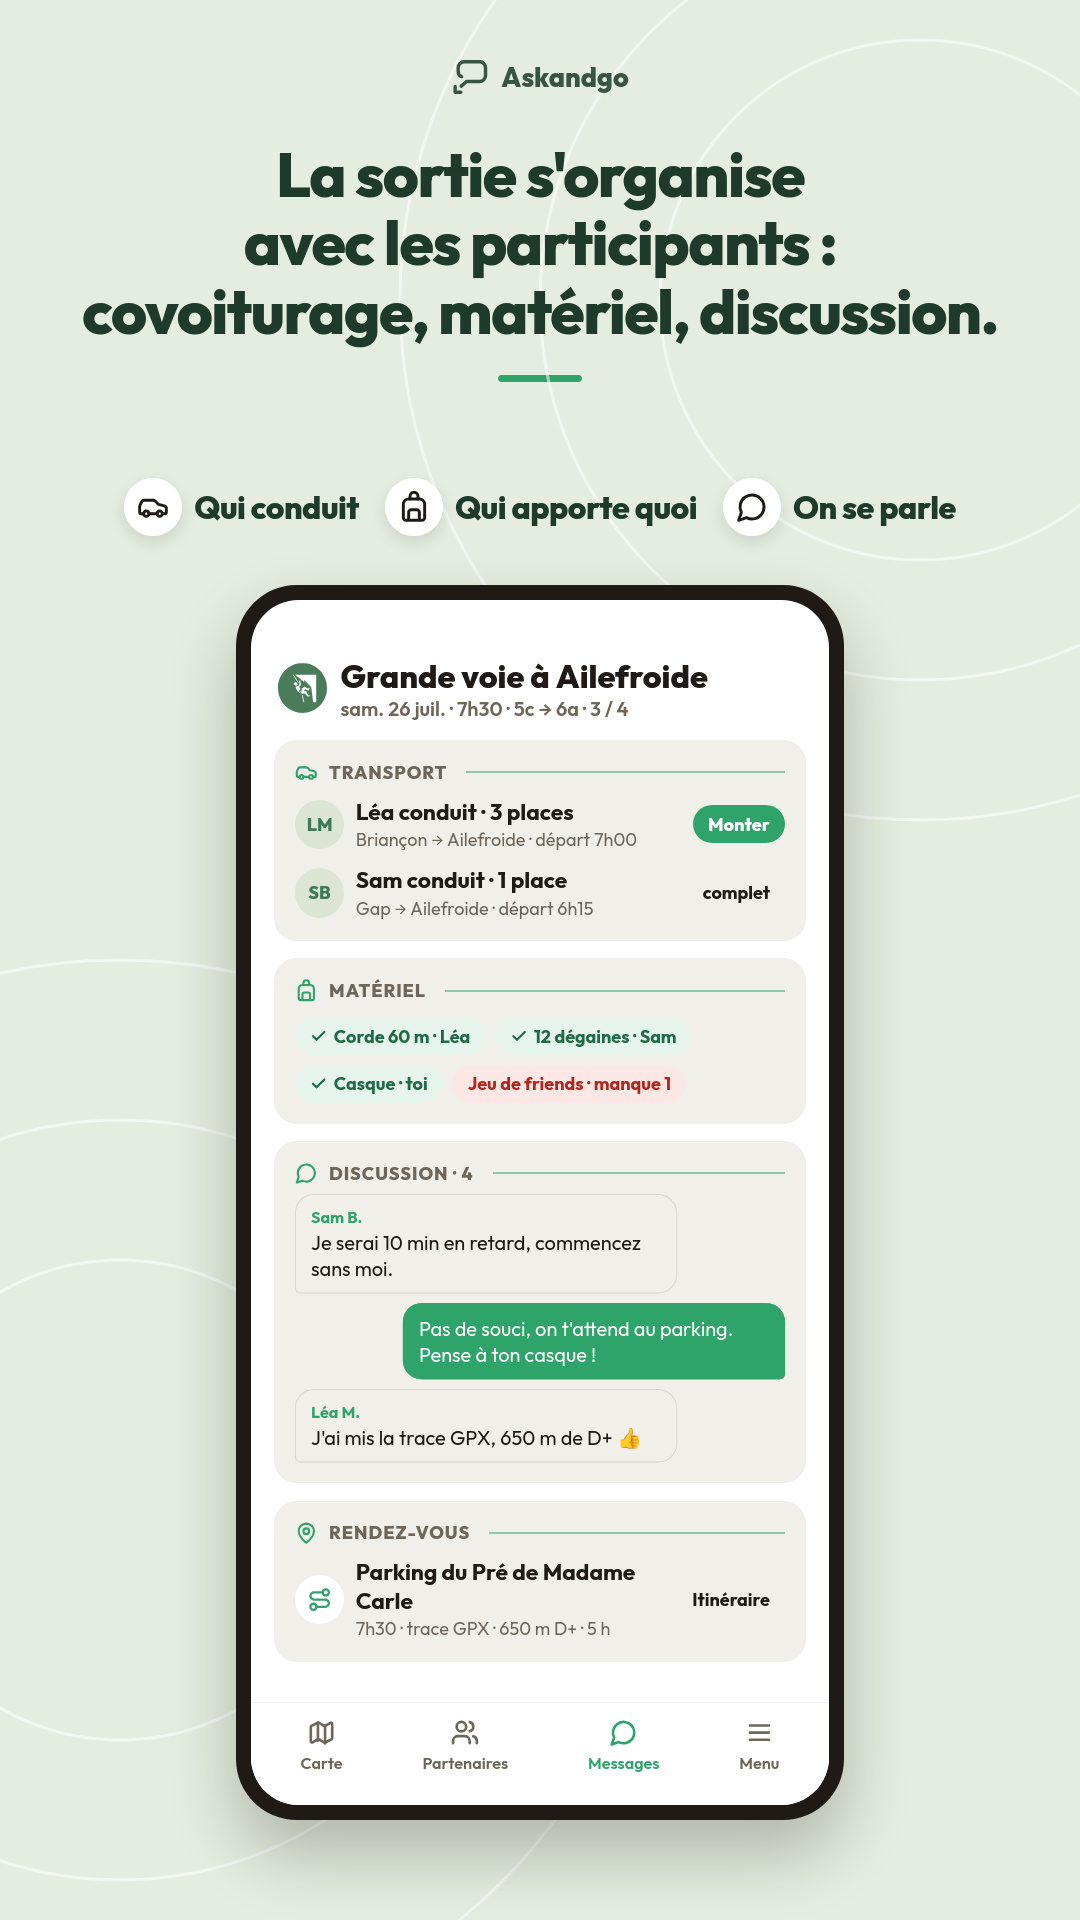
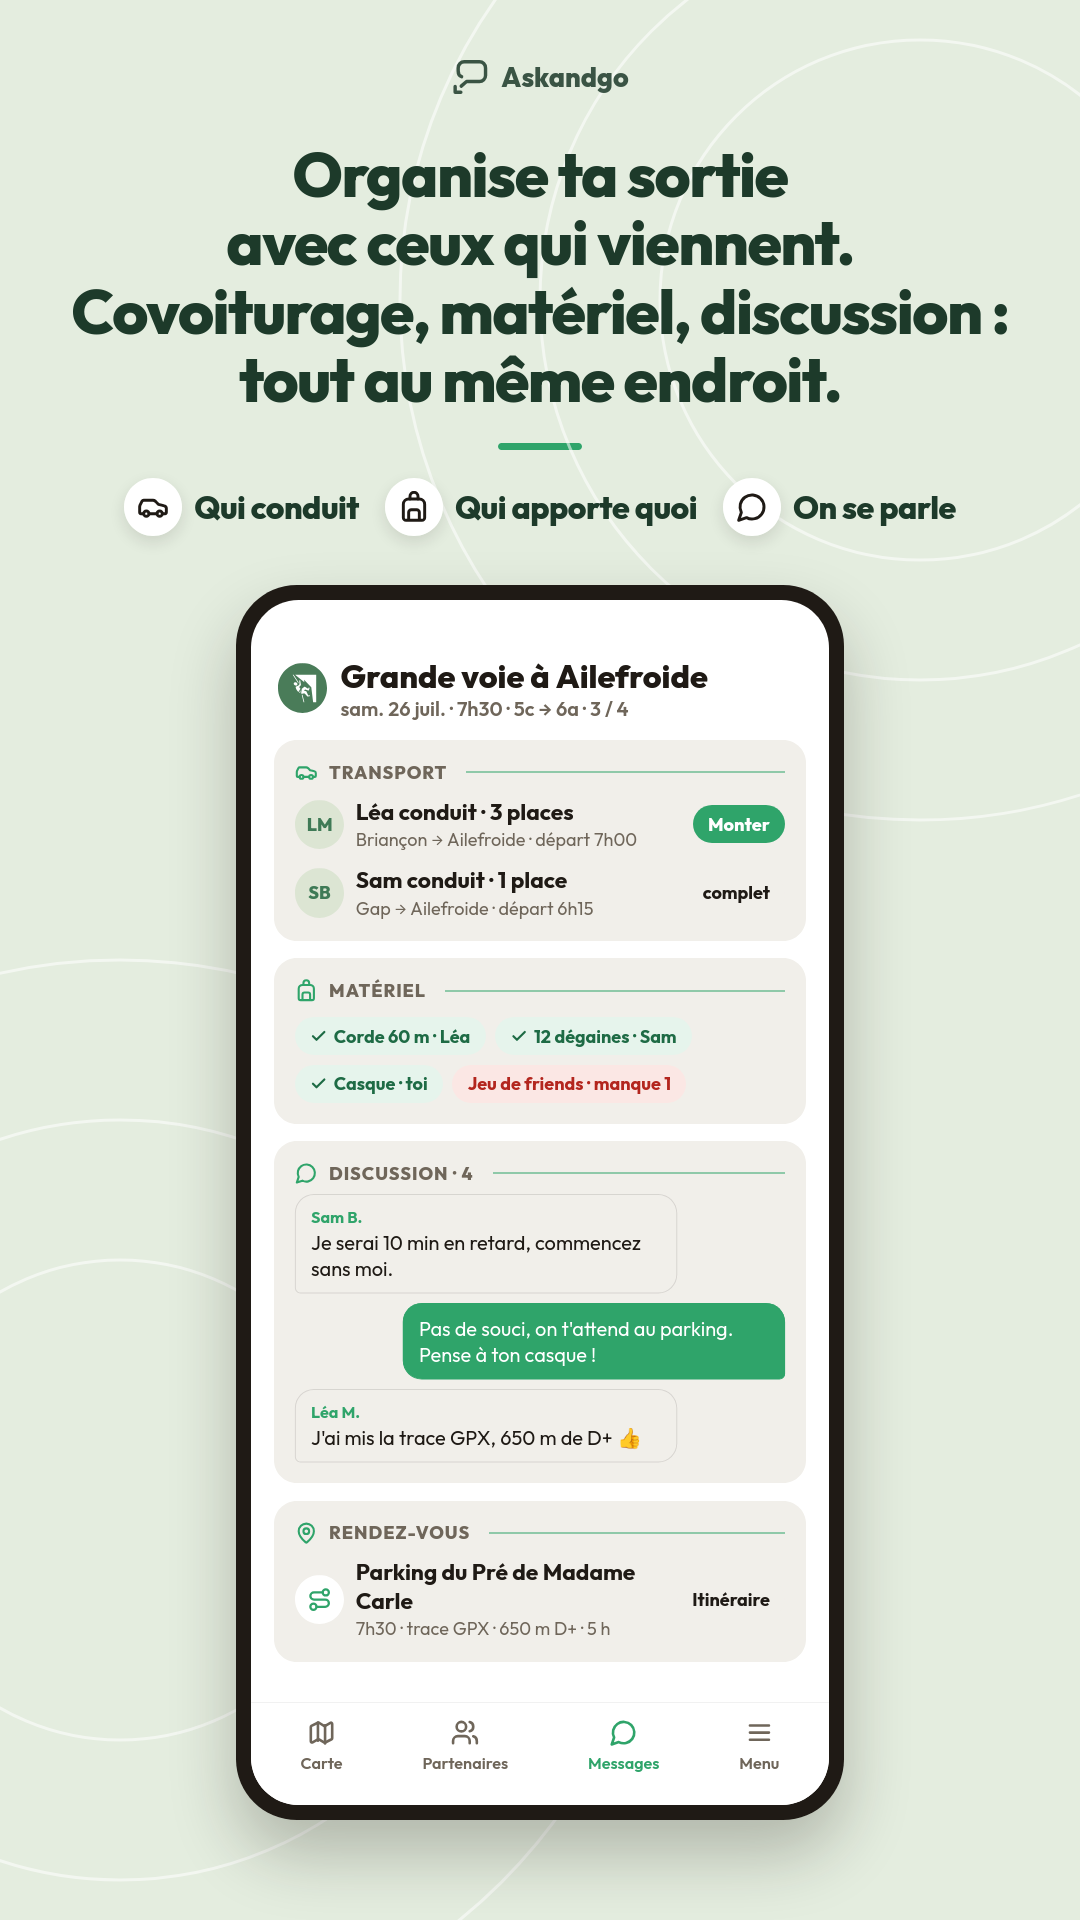
feat(play): image 2 title — « Organise ta sortie avec ceux qui viennent. Covoiturage, matériel, discussion : tout au même endroit. »

diff --git a/assets/play-store/askandgo/single.py b/assets/play-store/askandgo/single.py
@@ -22,7 +22,7 @@ def single(title, sub, body_html, items):
     return shell.replace('<div class="phone"><div class="scr"></div></div>', keywords(items) + phone)
 
 if which == '2':
-    html = single("La sortie s'organise<br>avec les participants :<br>covoiturage, matériel, discussion.", "", screen_body,
+    html = single("Organise ta sortie<br>avec ceux qui viennent.<br>Covoiturage, matériel, discussion :<br>tout au même endroit.", "", screen_body,
                   [(li('car', 32, INK), 'Qui conduit'), (li('bag', 32, INK), 'Qui apporte quoi'), (li('msg', 32, INK), 'On se parle')])
 elif which == '4':
     html = single("Les discussions des pratiquants<br>de ta vallée,<br>sport par sport.", '', screen_body,
